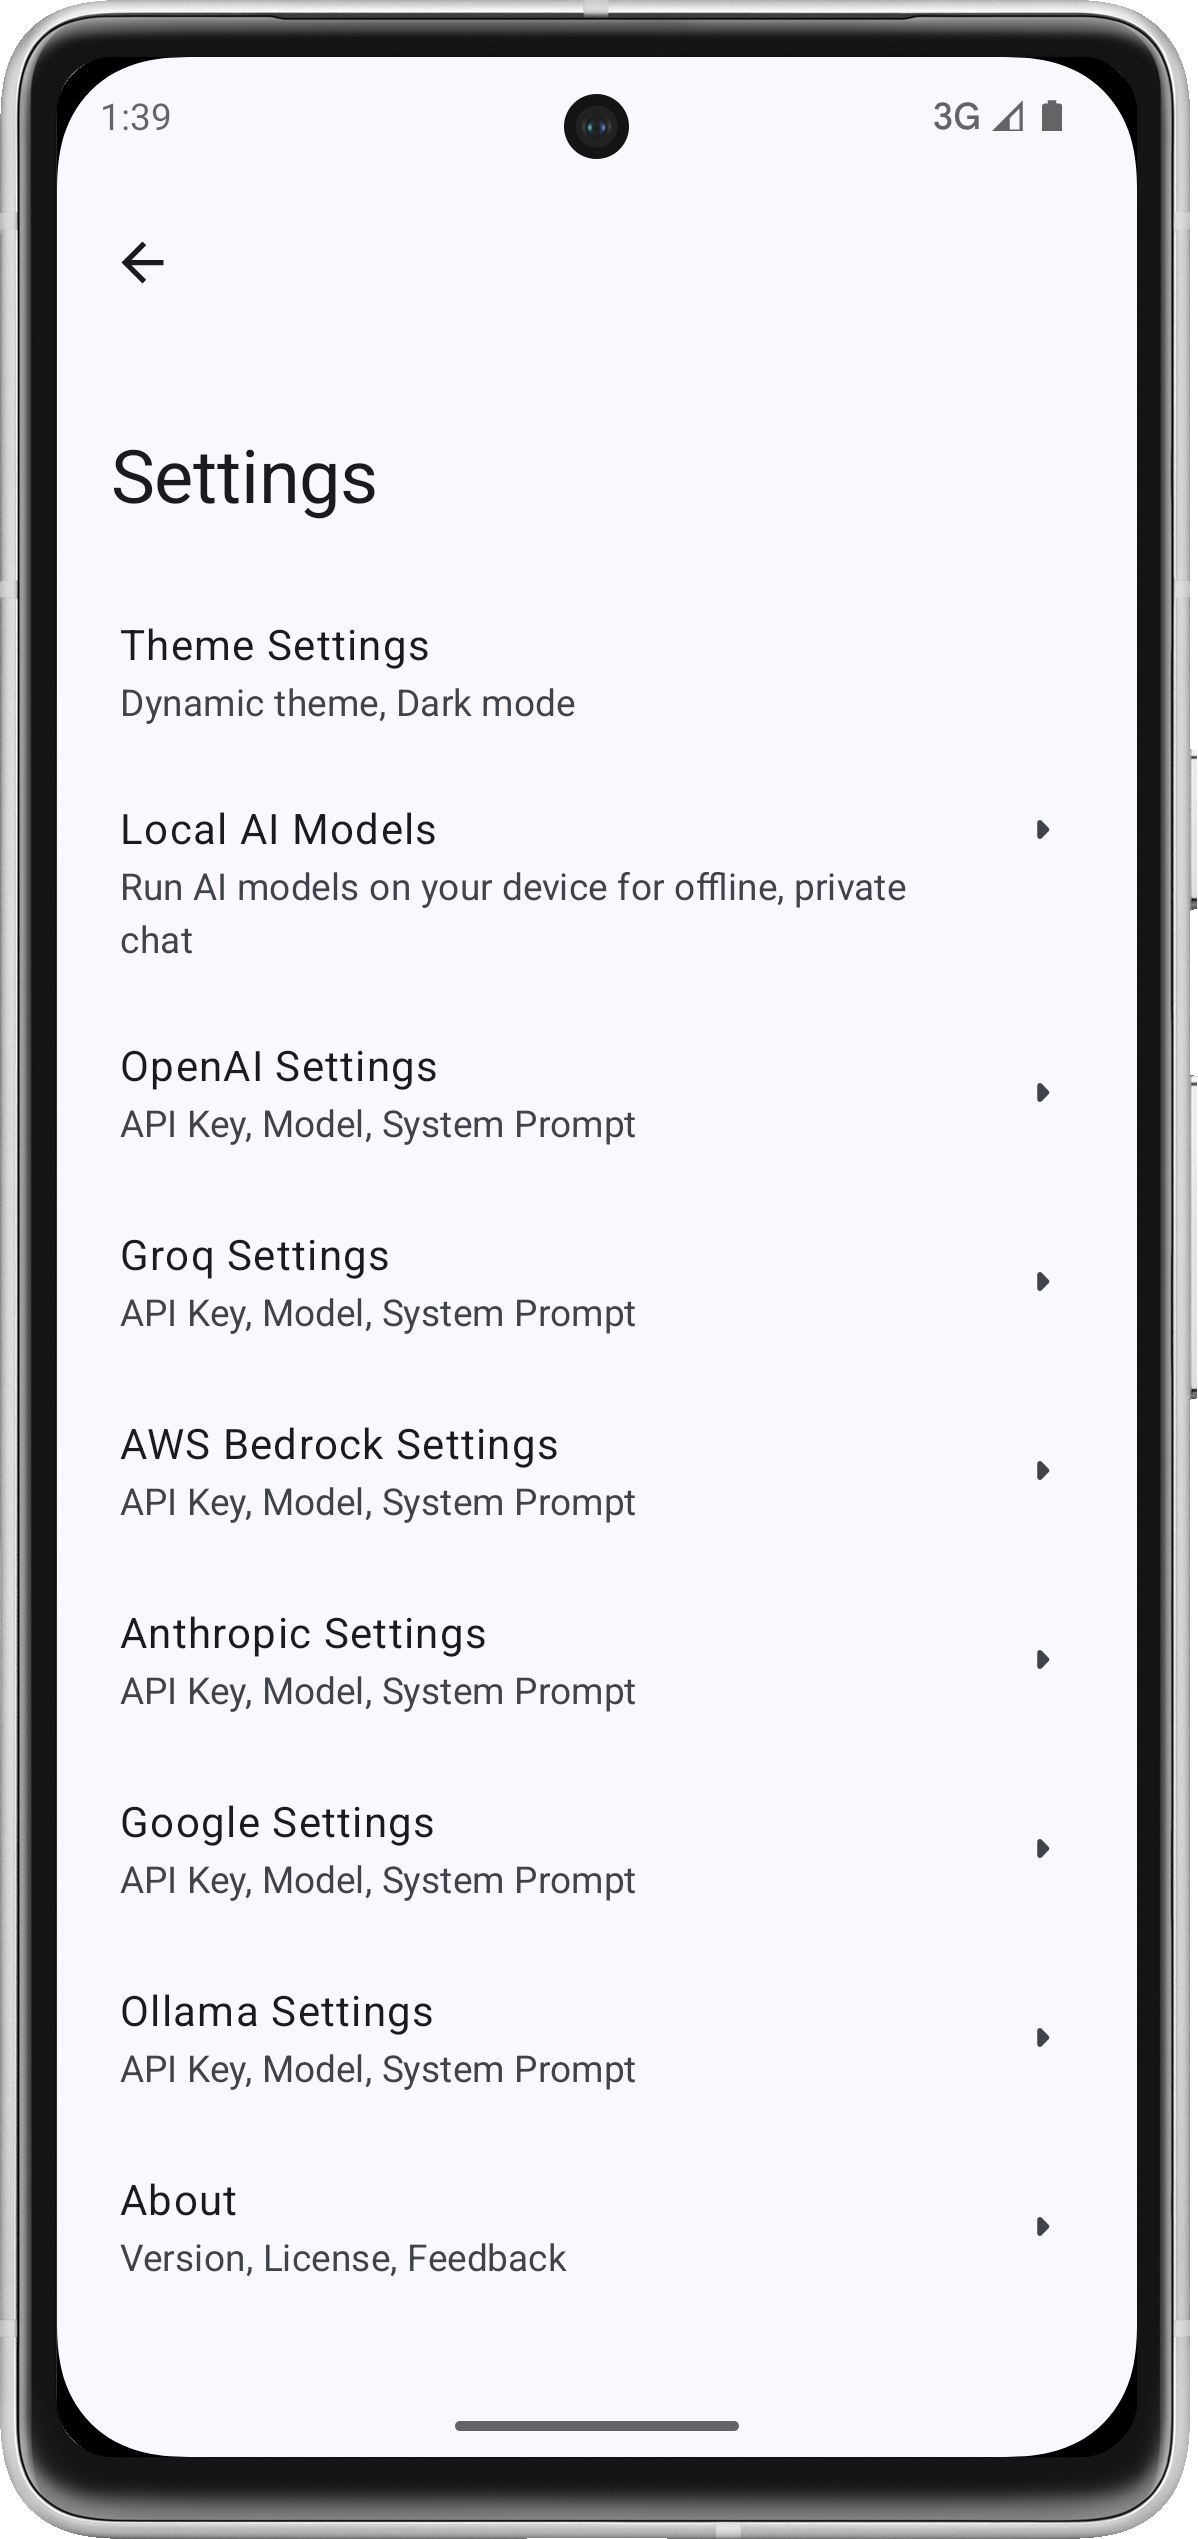
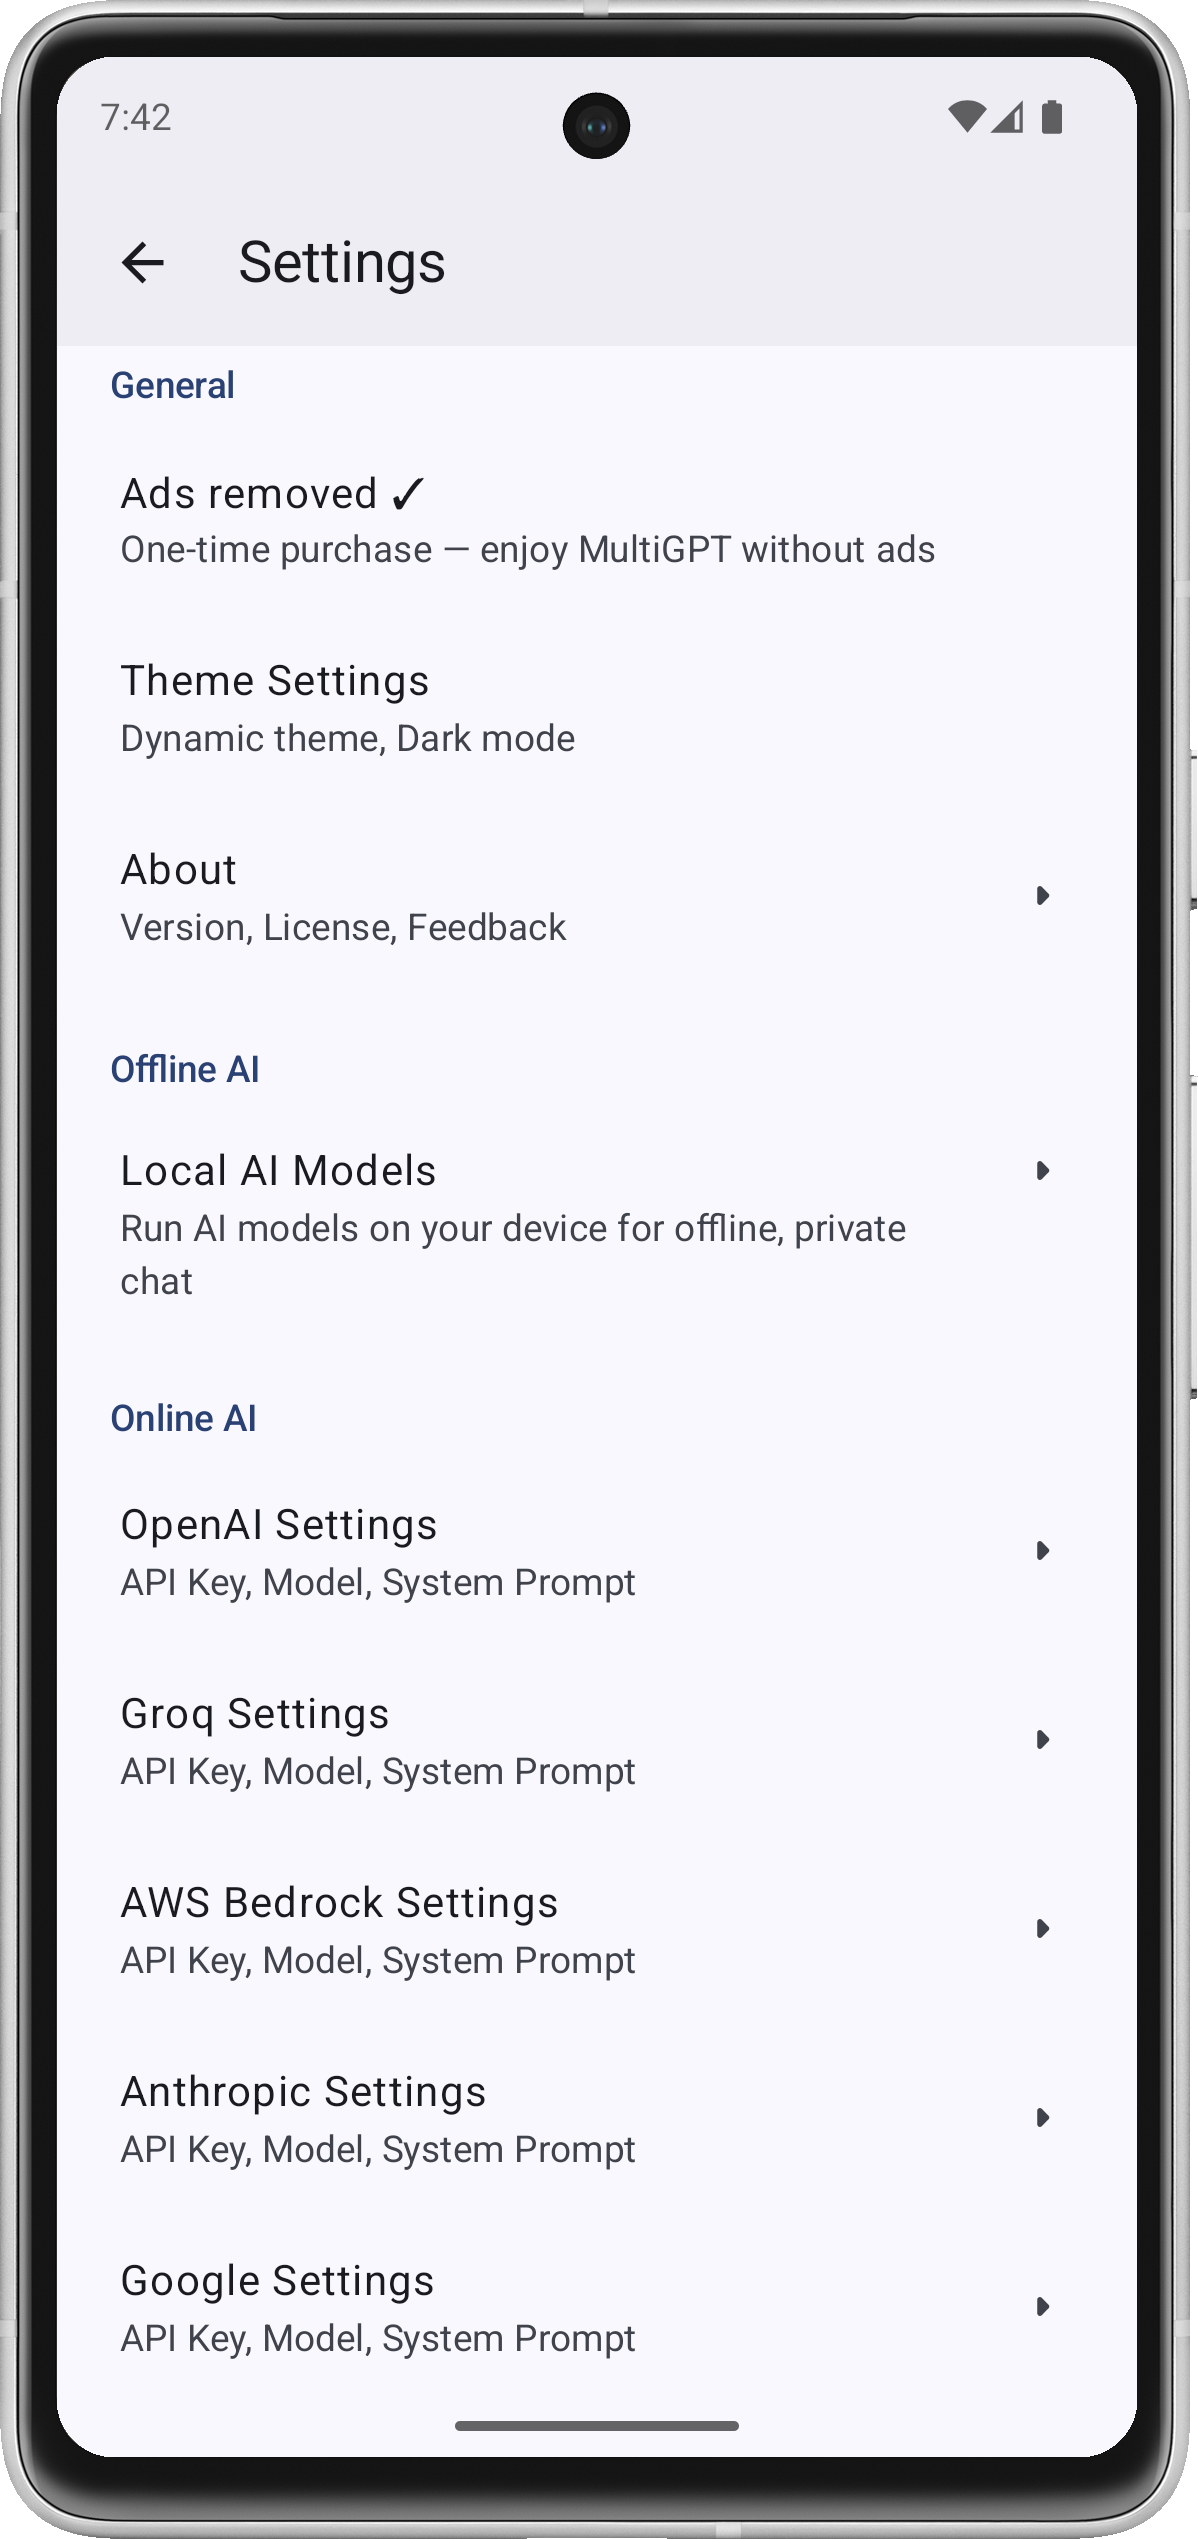
feat: implement AI personas and per-chat system prompt overrides

diff --git a/app/src/main/kotlin/com/matrix/multigpt/billing/BillingManager.kt b/app/src/main/kotlin/com/matrix/multigpt/billing/BillingManager.kt
@@ -123,6 +123,16 @@ object BillingManager {
     }
 
     fun purchase(activity: Activity, sku: String, callback: ((Boolean) -> Unit)? = null) {
+        // In debug builds, fake a successful purchase immediately
+        if (com.matrix.multigpt.BuildConfig.DEBUG) {
+            Log.d(TAG, "DEBUG: Faking purchase for $sku")
+            val ctx = activity.applicationContext
+            ctx.getSharedPreferences(PREFS_NAME, Context.MODE_PRIVATE)
+                .edit().putBoolean(PREF_AD_FREE, true).apply()
+            callback?.invoke(true)
+            return
+        }
+
         onPurchaseComplete = callback
         val details = productDetailsCache[sku]
         if (details == null) {
@@ -236,6 +246,19 @@ object BillingManager {
     fun isAdFree(context: Context): Boolean {
         return context.getSharedPreferences(PREFS_NAME, Context.MODE_PRIVATE)
             .getBoolean(PREF_AD_FREE, false)
+    }
+
+    /**
+     * DEBUG ONLY: Toggle ad-free purchase state without real billing.
+     * Does nothing in release builds.
+     */
+    fun debugTogglePurchase(context: Context): Boolean {
+        if (!com.matrix.multigpt.BuildConfig.DEBUG) return isAdFree(context)
+        val prefs = context.getSharedPreferences(PREFS_NAME, Context.MODE_PRIVATE)
+        val newState = !prefs.getBoolean(PREF_AD_FREE, false)
+        prefs.edit().putBoolean(PREF_AD_FREE, newState).apply()
+        Log.d(TAG, "DEBUG: ad_free toggled to $newState")
+        return newState
     }
 
     /** Localized, currency-correct price string from Google Play (e.g. "$2.99"). Null if not yet loaded. */

diff --git a/PUBLISHING_GUIDE.md b/PUBLISHING_GUIDE.md
@@ -1,0 +1,287 @@
+# Publishing MultiGPT on Google Play - GPL-3.0 Compliance Guide
+
+## ✅ YES, You Can Publish on Google Play with Ads
+
+Under GPL-3.0, you **CAN**:
+- Publish on Google Play Store
+- Add your own advertisements (AdMob, etc.)
+- Charge money for the app
+- Make modifications
+- Create a commercial version
+
+## 🔑 Critical Requirements You MUST Follow
+
+### 1. **Source Code Availability** (MOST IMPORTANT)
+
+**REQUIRED**: Make the complete source code publicly available for every version you publish.
+
+#### Options:
+- **Option A** (Recommended): Keep source on public GitHub repository
+  - Update GitHub repo whenever you publish a new Play Store version
+  - Include link to GitHub in Play Store description
+  
+- **Option B**: Provide written offer in the app
+  - "Source code available at [URL]" in app settings
+  - Must be accessible for at least 3 years
+
+#### What to Include:
+```
+✅ All source code
+✅ Build scripts and configuration
+✅ Dependencies list (gradle files, etc.)
+✅ Instructions on how to build from source
+✅ All modifications you made
+✅ This GPL-3.0 LICENSE file
+```
+
+### 2. **In-App License Information**
+
+**REQUIRED**: Display license information within your app.
+
+Add a "About" or "Licenses" section in app settings showing:
+
+```kotlin
+// Example in Settings Screen
+"About" -> {
+    Text("MultiGPT")
+    Text("Copyright (C) 2025 Prasoon Kumar")
+    Text("Based on GPT Mobile by Taewan Park")
+    
+    Button("View License (GPL-3.0)") {
+        // Show full license text or link to LICENSE file
+    }
+    
+    Button("View Source Code") {
+        // Link to GitHub repository
+    }
+    
+    Text("This app is free software licensed under GPL-3.0")
+    Text("You can redistribute and modify it under the terms of the GPL-3.0 license")
+}
+```
+
+### 3. **Google Play Store Listing**
+
+**In Description**, include:
+
+```
+📝 Open Source License
+This app is licensed under GNU GPL-3.0
+
+🔓 Source Code Available
+Full source code: https://github.com/CodeShipping/Multi-GPT
+
+Based on GPT Mobile by Taewan Park
+https://github.com/Taewan-P/gpt_mobile
+
+You are free to:
+• View and study the source code
+• Modify and distribute the app
+• Use it for any purpose
+
+All under the terms of GPL-3.0
+```
+
+### 4. **Version Synchronization**
+
+**CRITICAL**: Every Play Store release must match a GitHub release.
+
+```bash
+# Example workflow:
+1. Make changes to code
+2. Update version in build.gradle
+3. Commit to GitHub
+4. Create GitHub Release tag (e.g., v1.0.5)
+5. Build signed APK/AAB
+6. Upload to Play Store
+7. Include GitHub release link in changelog
+```
+
+### 5. **Copyright Notices**
+
+Keep in ALL source files:
+
+```kotlin
+/*
+ * MultiGPT - Multi-model AI Chat Application
+ * Copyright (C) 2025 Prasoon Kumar
+ * 
+ * Based on GPT Mobile
+ * Copyright (C) 2024 Taewan Park
+ * 
+ * This program is free software: you can redistribute it and/or modify
+ * it under the terms of the GNU General Public License as published by
+ * the Free Software Foundation, either version 3 of the License, or
+ * (at your option) any later version.
+ */
+```
+
+## 💰 Monetization (Ads & Payments)
+
+### ✅ ALLOWED:
+- Google AdMob banner/interstitial ads
+- In-app purchases for premium features
+- Charging money for the app download
+- Offering paid support or warranty
+
+### ⚠ RESTRICTIONS:
+- Users who get the source code can:
+  - Remove ads from their own build
+  - Redistribute the ad-free version
+  - Publish their own version on Play Store
+- You CANNOT prevent this (it's part of GPL-3.0 freedom)
+
+### 💡 Monetization Strategy:
+
+**Best Approach**: 
+- Publish on Play Store with ads (convenience)
+- Keep source on GitHub (GPL requirement)
+- Most users will use Play Store version (easier)
+- Technical users may build from source (that's OK)
+- Your brand/marketing drives Play Store downloads
+
+**Example**:
+- "Official version on Play Store with regular updates"
+- "DIY builders: compile from source"
+- Your Play Store presence = value (trust, convenience, updates)
+
+## 📋 Pre-Launch Checklist
+
+### Before Publishing First Version:
+
+- [ ] Full source code on public GitHub
+- [ ] LICENSE file (GPL-3.0) in repository
+- [ ] THIRD_PARTY_LICENSES.md file present
+- [ ] NOTICE file with copyright info
+- [ ] README with GPL-3.0 badge and source link
+- [ ] In-app "About" section with license info
+- [ ] In-app link to source code repository
+- [ ] Play Store description mentions GPL-3.0
+- [ ] Play Store description links to GitHub
+- [ ] Build instructions in repository
+- [ ] All dependencies properly licensed
+- [ ] Copyright notices in source files
+
+### For Every Update:
+
+- [ ] Code committed to GitHub
+- [ ] GitHub release tag created
+- [ ] Version numbers match (app vs GitHub)
+- [ ] Play Store changelog mentions GitHub release
+- [ ] Source code updated BEFORE Play Store release
+
+## ⚖ Legal Protections
+
+### What GPL-3.0 Protects You From:
+
+1. **Patent Lawsuits**: GPL-3.0 includes patent protection
+2. **License Violations**: Clear terms for users
+3. **Tivoization**: Prevents hardware restrictions
+
+### What You Need Insurance For:
+
+1. **App Content**: Any liability from AI responses
+2. **User Data**: Privacy law compliance (GDPR, etc.)
+3. **API Costs**: Users running up bills
+4. **General Liability**: Standard app insurance
+
+**Note**: GPL-3.0 has "NO WARRANTY" clause, but check local laws.
+
+## 🚫 Common Mistakes to Avoid
+
+### ❌ DON'T:
+1. Publish on Play Store without updating GitHub
+2. Hide or delay source code releases
+3. Add DRM or copy protection
+4. Use GPL-incompatible libraries
+5. Forget license notices in source files
+6. Remove original author attribution
+7. Change license to proprietary
+8. Restrict users from modifying their copies
+
+### ✅ DO:
+1. Keep GitHub in sync with Play Store
+2. Make source easily discoverable
+3. Welcome forks and derivatives
+4. Credit original authors prominently
+5. Respond to source code requests
+6. Document build process clearly
+7. Maintain GPL-3.0 for all versions
+8. Embrace the open source community
+
+## 📱 In-App Implementation Example
+
+```kotlin
+// Add to app/src/main/kotlin/com/matrix/multigpt/ui/settings/SettingsScreen.kt
+
+@Composable
+fun LicenseSection() {
+    Section(title = "Open Source License") {
+        ListItem(
+            text = "About MultiGPT",
+            onClick = { /* Show about dialog */ }
+        )
+        ListItem(
+            text = "View License (GPL-3.0)",
+            onClick = { /* Open LICENSE file or web link */ }
+        )
+        ListItem(
+            text = "View Source Code",
+            onClick = { 
+                openUrl("https://github.com/CodeShipping/Multi-GPT")
+            }
+        )
+        ListItem(
+            text = "Third Party Licenses",
+            onClick = { /* Show THIRD_PARTY_LICENSES.md */ }
+        )
+        
+        Text(
+            text = "This app is free software licensed under GNU GPL-3.0. " +
+                   "You can view, modify, and redistribute it under the terms of the license.",
+            style = MaterialTheme.typography.bodySmall,
+            modifier = Modifier.padding(16.dp)
+        )
+    }
+}
+```
+
+## 🌟 Benefits of GPL-3.0 on Play Store
+
+### Advantages:
+1. **Community Trust**: Open source = transparency
+2. **Community Contributions**: Others can improve your app
+3. **Security**: Public code review finds bugs
+4. **Marketing**: "Open source" is attractive
+5. **No License Fees**: GPL-3.0 is free
+6. **Learning**: Others learn from your code
+
+### Your Value-Add:
+- Official Play Store presence
+- Regular updates and support
+- Convenience (no need to build)
+- Your brand and marketing
+- Additional features/services
+- Professional quality assurance
+
+## 📞 Summary
+
+**YES, publish on Google Play with ads!**
+
+**Just remember:**
+1. Keep source on GitHub (always in sync)
+2. Link to GitHub in app and Play Store
+3. Include license notices in app
+4. Update GitHub BEFORE each Play Store release
+5. Welcome the open source community
+
+**You can make money while being GPL-3.0 compliant!**
+
+The GPL doesn't prevent commercial use - it just ensures freedom for users. Many successful apps (like Telegram, Firefox, VLC) use similar licenses.
+
+---
+
+**Questions?** 
+- GPL-3.0 FAQ: https://www.gnu.org/licenses/gpl-faq.html
+- FSF Contact: licensing@fsf.org
+- Legal Advice: Consult a lawyer for specific situations
